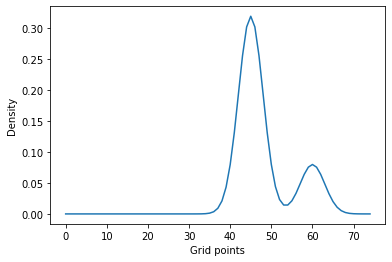
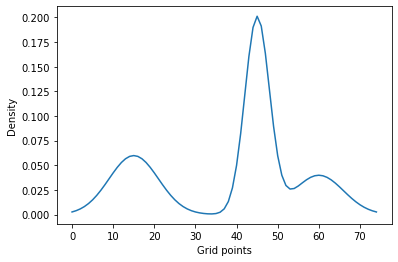
files

diff --git a/_posts/2020-01-17-GMM-autograd.md b/_posts/2020-01-17-GMM-autograd.md
@@ -5,14 +5,14 @@ permalink: /posts/2020/01/gmm-optimization/
 tags:
   - snippets
 ---
-# Probability density fitting of a Mixture of two Gaussians via autograd
+# Probability density fitting of a Mixture of Gaussians via autograd
 
-Recently I've had to fit a [Mixture of two Gaussians](https://en.wikipedia.org/wiki/Mixture_model#Gaussian_mixture_model) to a target *density* instead of individual samples drawn from this density.
+Recently I've had to fit a [Mixture of Gaussians](https://en.wikipedia.org/wiki/Mixture_model#Gaussian_mixture_model) to a target *density* instead of individual samples drawn from this density.
 Googling revealed that at least [one other person](https://stats.stackexchange.com/questions/226504/fit-gaussian-mixture-model-directly-to-the-mixture-density) faced this particular problem too, but there was no code readily available.
 
 To be clear, the problem is the following: given a mixture of Gaussian probability density that is evaluated at $N$ points, we want to recover parameters of these Gaussians (i.e. mean $\mu_{i}$, standard deviation $\sigma_{i}$, and a set of mixture weights $\pi_{i}$ that are constrained to be [0, 1] and sum to 1).
 
-For two Gaussians our objective is to find parameters of a Gaussian mixture that make its density match the blue line below (evaluated at $N=25$ points).
+For three Gaussians our objective is to find parameters of a Gaussian mixture that make its density match the blue line below (evaluated at $N=25$ points).
 
 
 ```python
@@ -20,15 +20,16 @@ from scipy import stats
 import autograd.numpy as np
 import matplotlib.pyplot as plt
 %matplotlib inline
-m1 = 15
-m2 = 20
-std1 = 1
-std2 = 1
-pi = 0.8
+true_means = [5, 15, 20]
+true_stds = [2, 1, 2]
+true_pis = [0.3, 0.5, 0.2]
+
 gridmin, gridmax, N = 0, 25, 75
 grid =  np.arange(gridmin, gridmax, (gridmax-gridmin)/N)
 
-data = np.array([pi*stats.norm.pdf(t, loc=m1, scale=std1)+(1-pi)*stats.norm.pdf(t, loc=m2, scale=std2)
+data = np.array([
+    np.sum([pi*stats.norm.pdf(t, loc=m, scale=std)
+            for m, std, pi in zip(true_means, true_stds, true_pis)])
                 for t in grid])
 plt.plot(data, label='Mixture probability density')
 plt.xlabel('Grid points')
@@ -40,9 +41,8 @@ plt.ylabel('Density')
 
 What follows is my simple solution using autograd with the following caveats:
 * I estimate the distance between target probability density and our density via an $L2$ distance
-* I circumvent setting up explicit constraints on $\pi$ by using the logit of $\pi$, which automatically constrains the 2 Gaussian case
-* I choose two Gaussians, i.e. I don't estimate the optimal number of Gaussians; to do so one can use cross-validation
-* The method is sensitive to the value of initial parameters
+* Placing a prior on individual parameters will help in converging to a sensible solution (i.e. prevent standard deviation from exploding)
+* Initial parameters matter, it can be necessary to run the procedure multiple times and choose the solution with smallest loss
 
 ## The solution
 
@@ -58,23 +58,27 @@ from functools import partial
 def pdf(x, m, std):
     return (1/(std*np.sqrt(2*np.pi)))*np.exp(-0.5*((x-m)/std)**2)
 
-def gmm(t, m1, m2, std1, std2, pi):
-    '''Returns the density of a mixture of 2 Gaussians model estimated at grid point t.
-    m1 and m2 are means of the two Gaussian
-    std1 and std2 are logarithms of the standard deviation of the two Gaussians
-    pi is the mixing probability (since it is constrained to sum to one we only need one in the 2 Gaussian case)'''
-    return pi*pdf(t, m1, np.exp(std1))+(1-pi)*pdf(t, m2, np.exp(std2))
+def gmm(t, means, stds, pis):
+    '''Returns the density of a mixture of Gaussians model estimated at grid point t.
+    means is a list of means of the gaussians
+    stds are logarithms of the standard deviation of the gaussians
+    pis is the mixing probability'''
+    density = np.sum([pi*pdf(t, mean, np.exp(std))
+                      for mean, std, pi in zip(means, stds, pis)])
+    return density
 
-def loss_func(target_density, params, grid=25):
+def loss_func(target_density, nested_params, grid=25):
     '''Loss function for the model,
     target_density is an array of values for the target density,
     params is a list that contains m1, m2, std1, std2 and the logit of pi,
     grid can either be an int (in which case it is the argument supplied to range) or an iterable'''
-    m1, m2, std1, std2, pi_prop = params
+    means, stds, pis = nested_params
     if type(grid)==int:
         grid = range(grid)
-    p = np.exp(pi_prop) / (np.exp(pi_prop) + 1)
-    our_density = np.array([gmm(t, m1, m2, std1, std2, p)
+    # go from logits to probabilities
+    pis = [np.exp(pi) for pi in pis]
+    pis = [pi/np.sum(pis) for pi in pis]
+    our_density = np.array([gmm(t, means, stds, pis)
                 for t in grid])
     return np.sum((target_density-our_density)**2)
 
@@ -82,8 +86,8 @@ def loss_func(target_density, params, grid=25):
 objective = partial(loss_func, data, grid=grid)
 
 # get a random guess for the mean
-randmean = np.random.randint(0, 25, 2).astype('float').tolist()
-initial_params = randmean + [0., 0., 1.]
+randmean = np.random.randint(0, 25, 3).astype('float').tolist()
+initial_params = [randmean, [0., 0., 0.], [5., 5., 5.]]
 
 # flatten everything so it plays nice with the optimizer
 flattened_obj, unflatten, flattened_init_params =\
@@ -97,21 +101,23 @@ from scipy.optimize import minimize
 res=minimize(flattened_obj, flattened_init_params,
          jac=gradf, method='BFGS')
 
-m1_l, m2_l, std1_l, std2_l, pi_prop = res.x
-p = np.exp(pi_prop) / (np.exp(pi_prop) + 1)
-print('True parameters {}'.format([m1, m2, std1, std2, pi]))
-print('Recovered parameters {}'.format([m1_l, m2_l, np.exp(std1_l), np.exp(std2_l), p]))
+means, stds, pis = unflatten(res.x)
+pis = [np.exp(pi) for pi in pis]
+pis = [pi/np.sum(pis) for pi in pis]
+
+print('True parameters {}'.format(true_means+true_stds+true_pis))
+print('Recovered parameters {}'.format(means+[np.exp(std) for std in stds]+pis))
 ```
 
-    True parameters [15, 20, 1, 1, 0.8]
-    Recovered parameters [19.99999432837761, 14.999999725601715, 1.0000045596166873, 0.9999995374426933, 0.1999986294444458]
+    True parameters [5, 15, 20, 2, 1, 2, 0.3, 0.5, 0.2]
+    Recovered parameters [array(5.00019487), array(20.0016879), array(15.00013811), 2.000017569259828, 1.99839559825986, 1.0001623730291136, 0.2999967947038737, 0.1999050817841846, 0.5000981235119417]
 
 
 ### Let's see if the results look right.
 
 
 ```python
-our_density = np.array([p*stats.norm.pdf(t, loc=m1_l, scale=np.exp(std1_l))+(1-p)*stats.norm.pdf(t, loc=m2_l, scale=np.exp(std2_l))
+our_density = np.array([gmm(t, means, stds, pis)
                 for t in grid])
 
 plt.plot(our_density, label='Estimated probability density', linewidth=3)
